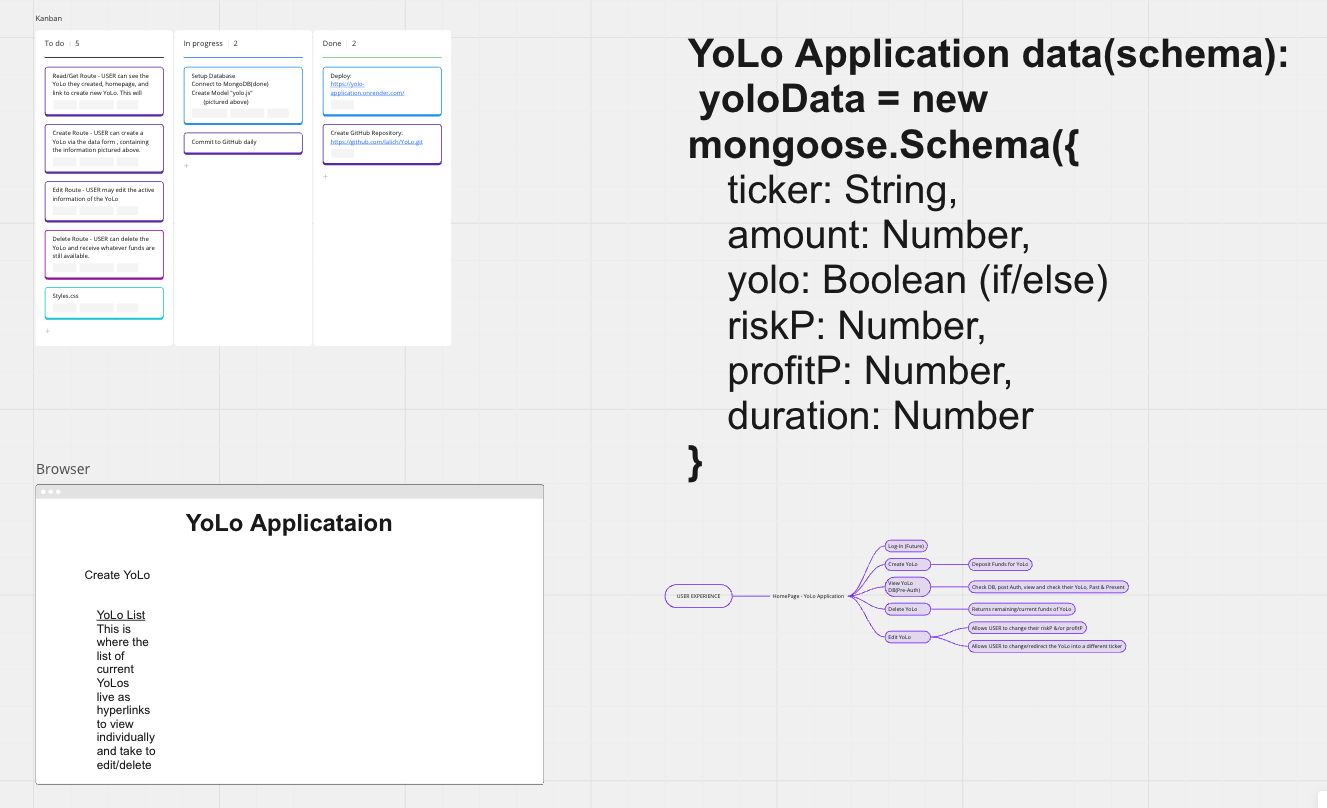
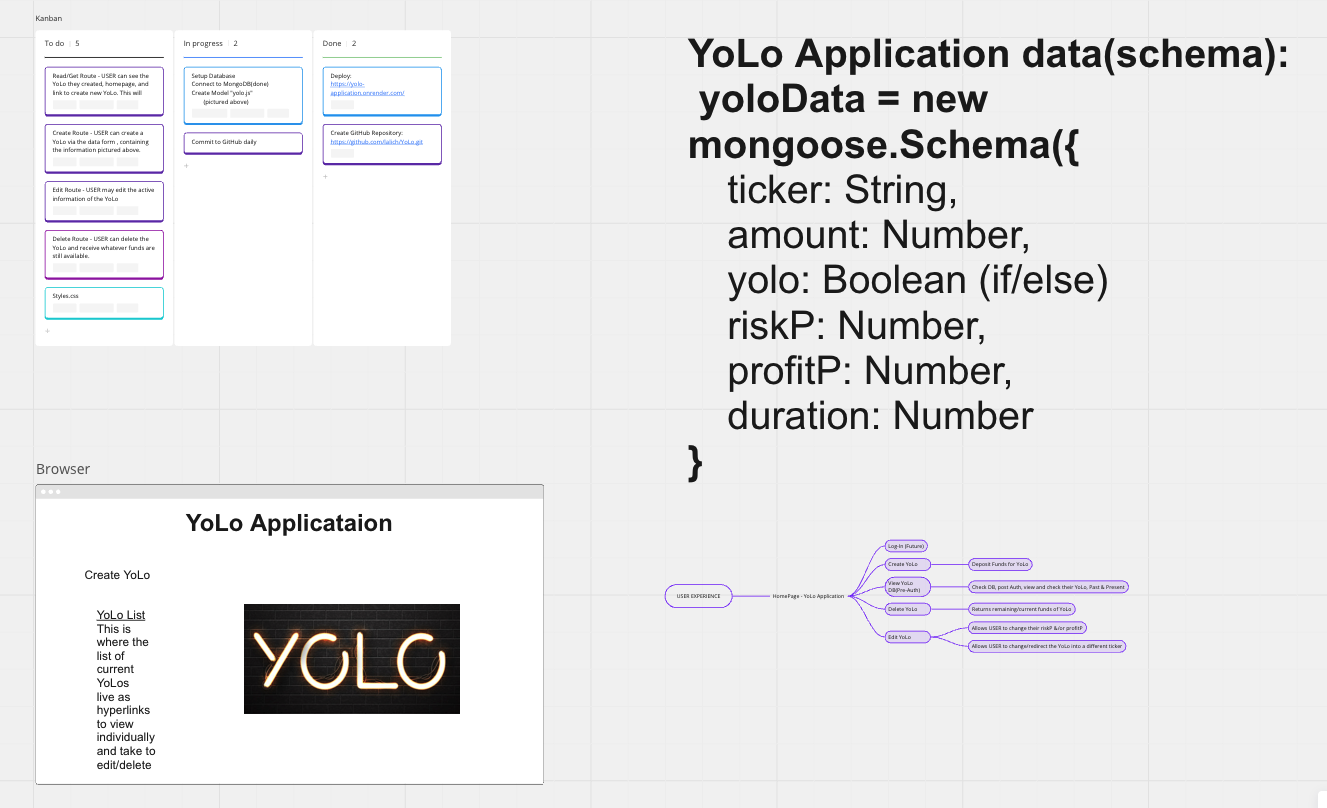
its alive... almost maybe YoLo

Changed region(s): [[0.1854, 0.7426, 0.3708, 0.8973]]

diff --git a/home.html b/home.html
@@ -5,19 +5,20 @@
     <meta http-equiv="X-UA-Compatible" content="IE=edge">
     <meta name="viewport" content="width=device-width, initial-scale=1.0">
     <script src="https://code.jquery.com/jquery-3.7.0.js" integrity="sha256-JlqSTELeR4TLqP0OG9dxM7yDPqX1ox/HfgiSLBj8+kM=" crossorigin="anonymous"></script>
-<script src="/app.js" defer></script>
-<link rel="stylesheet" href="/styles.css">
-    <title>Welcome Home</title>
+    <link rel="icon" type="image/x-icon" href="/YoLo.png">
+
+
+    <title>Welcome Degenerates</title>
 </head>
-<body>
-    <h1>Welcome to the YoLo Town!</h1>
+<body style="background-color: #457240; background-image: url('/YoLo.png'); background-repeat: repeat; background-size: cover">
+    <h1 style= 'color: blanchedalmond; text-align: center; font-size: xx-large; font-family: Franklin Gothic Medium, Arial Narrow, Arial, sans-serif;'>Welcome to the YoLo Town!</h1>
         <nav>
-        <a href="'/create">YoLo Addie Time!</a> 
+        <a style='text-align: center; display: block; font-size: X-large; color: gold;' href="/addie">YoLo Addie Time!</a> 
         </nav>
 
-        <h2>These are the YoLo attempts past and present....RIP</h2>
+        <h2 style= 'color: antiquewhite; text-align: center;'>These are the YoLo attempts past and present....RIP</h2>
             <nav>
-                <a href="/show">Take me to them!</a>
+                <a style='text-align: center; display: block; font-size: large; color: gold;' href="/show">Take me to them!</a>
             </nav>
 
 

diff --git a/server.js b/server.js
@@ -5,22 +5,44 @@ const morgan = require('morgan'); // logger for node
 const methodOverride = require('method-override'); // allows us to use PUT and DELETE methods
 // express application
 const app = express();
+const Yolos = require('./models/yolo')
 
 // middleware
 app.use(morgan('tiny')); // logging
 app.use(methodOverride('_method')); // override with POST having ?_method=DELETE or ?_method=PUT
-app.use(express.static('public')); // serve static files from public folder
+app.use(express.static('public', {setHeaders: (res, path) => {
+    if (path.endsWith('.css')) {
+        res.setHeader('Content-Type', 'text/css');}}})) // serve static files from public folder
+app.use(express.urlencoded({ extended: true})) // allows req.body to be read from the form.
 
 // Routes
 
 app.get('/', (req, res) => {
-    res.send('Yo git Fukd!');
+    res.sendFile('/Users/marklalich/Desktop/Desktop - Mark’s MacBook Pro/kale/unit2/project/home.html')
     })
 
 
-    app.get('/yolo', (req, res) => {
-        res.sendfile('/Users/marklalich/Desktop/Desktop - Mark’s MacBook Pro/kale/unit2/project/home.html')
-    })
+app.get('/addie', (req, res) => {
+        res.render('createYolo.ejs')
+})
+
+
+
+
+
+
+app.get('/show', (req, res) => {
+        res.render('yolo.ejs')
+})
+
+
+
+
+
+
+
+
+
 
     const PORT = process.env.PORT
     app.listen(PORT, () => { console.log(`Listening on port ${PORT}`)})

diff --git a/styles.css b/styles.css
@@ -1,0 +1,7 @@
+body {
+background-image: url('/public/YoLo.png');
+background-color: rgb(0, 29, 0);
+background-repeat: no-repeat;
+background-size: cover;
+
+}
